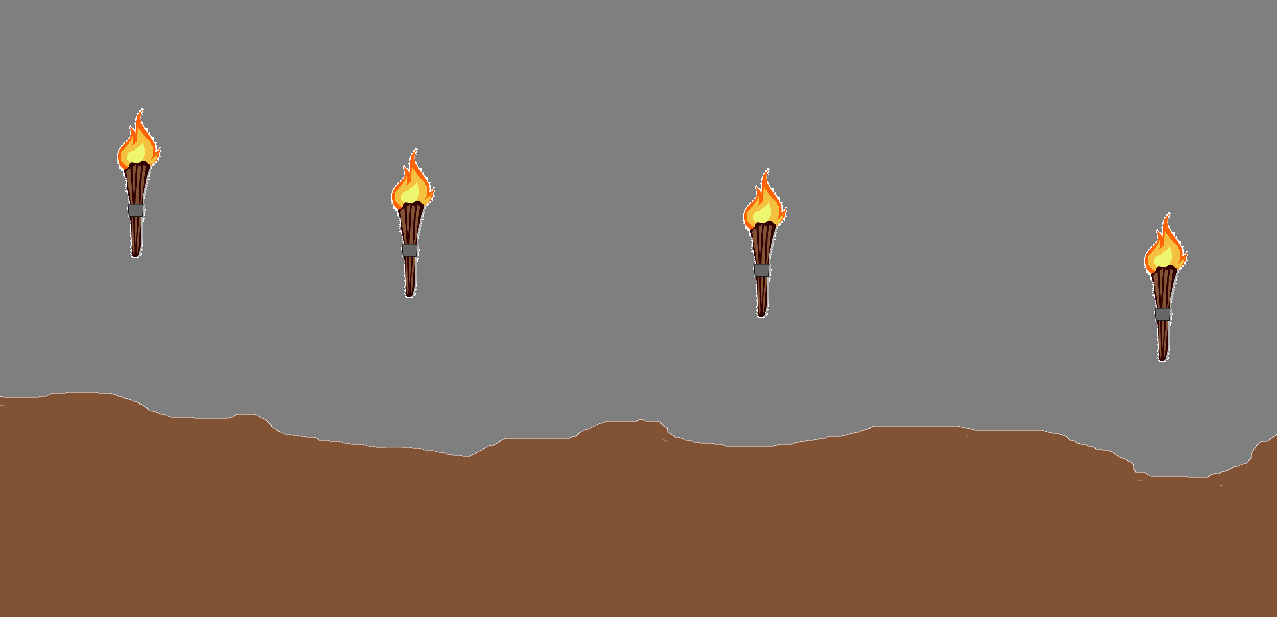
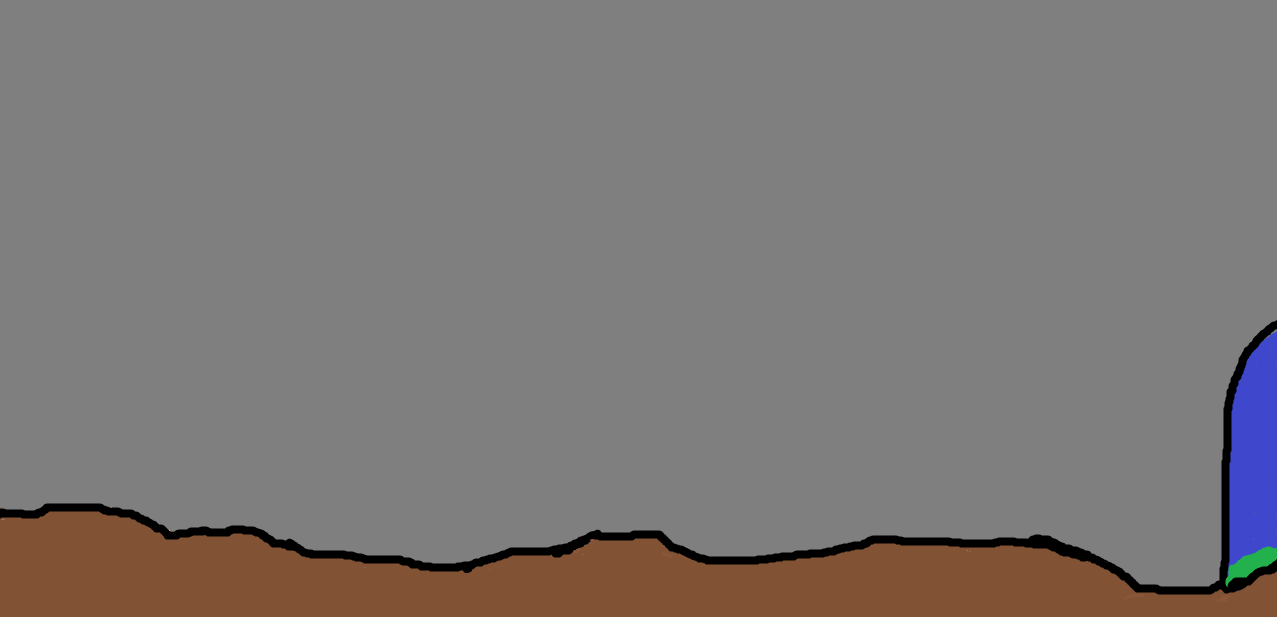
added torches and a way to stop collapsing roof

diff --git a/assets/javascript/cave.js b/assets/javascript/cave.js
@@ -5,10 +5,13 @@ var marginArray = []
 var rightCount = 48;
 var layers = 0
 var collapse = "notTriggered";
+var torch = false;
+var torchPicked;
 
 makeCave();
 
 function rocksFall() {
+    $("#torch4").css("display", "none")
     $("#pop-up").css("display", "inline-block")
     $("p").html("That may have been a mistake...")
     setTimeout(function() {
@@ -33,9 +36,38 @@ function rocksFall() {
 }
 
 $("#treasure").click(function(){
-    if (collapse === "waiting") {
+    if (collapse === "waiting" && torch === false) {
         openTreasure()
         setTimeout(rocksFall, 1000);
+        setTimeout(function (){
+            $("#character").attr("src", "assets/images/botanist-facing-right.png")
+            setTimeout(function (){
+                $("#character").attr("src", "assets/images/botanist-facing-left.png")
+                setTimeout(function (){
+                    $("#character").attr("src", "assets/images/botanist-facing-right.png")
+                },700)
+            },700)
+        },2400)
+    }
+    else if (collapse === "waiting" && torch === true) {
+        $("#pop-up").css("display", "inline-block")
+        $("p").html("Wait! With your torch you can see the chest is booby-trapped!")
+        setTimeout(function (){
+            $("p").html("You disable the trap!")
+            setTimeout(function (){
+                openTreasure()
+            },1000)
+        },1000)
+    }
+})
+
+$(".torch").click(function(){
+    if (torch === false){
+        torchPicked = this.id
+        console.log(torchPicked)
+        $("#"+ torchPicked).css("display", "none")
+        $("#character").attr("src", "assets/images/botanist-facing-left-torch.png")
+        torch = true;
     }
 })
 
@@ -80,12 +112,18 @@ function makeRocks () {
 }
 
 function openTreasure () {
-    $("#treasure").attr("src", "assets/images/treasure-open.png")
     $("#pop-up").css("display", "none")
+    $("#treasure").attr("src", "assets/images/treasure-open.png")
 }
 
 $(document).keydown(function( event ) {
     if ( event.which == 37 || event.which == 65) {
+        if (torch === false){
+            $("#character").attr("src", "assets/images/botanist-facing-left.png")
+        }
+        else {
+            $("#character").attr("src", "assets/images/botanist-facing-left-torch.png")
+        }
         if (rightCount > 13 && (collapse === "notTriggered" || collapse === "true")) {
             event.preventDefault();
             rightCount = rightCount - 0.5
@@ -105,6 +143,8 @@ $(document).keydown(function( event ) {
             $("#background").attr("src", "assets/images/cave-floor.png")
             $("#rock-div").empty()
             $("#treasure").css("display", "inline-block")
+            $(".torch").css("display", "inline-block")
+            $("#"+ torchPicked).css("display", "none")
             collapse = "notTriggered"
             rightCount = 98
             layers = 0
@@ -116,6 +156,12 @@ $(document).keydown(function( event ) {
         }
     }
     if ( event.which == 39 || event.which == 68 ) {
+        if (torch === false){
+            $("#character").attr("src", "assets/images/botanist-facing-right.png")
+        }
+        else {
+            $("#character").attr("src", "assets/images/botanist-facing-right-torch.png")
+        }
         if (rightCount < 90 && (collapse === "notTriggered" || collapse === "notInCave")) {
             event.preventDefault();
             rightCount = rightCount + 0.5
@@ -133,6 +179,7 @@ $(document).keydown(function( event ) {
             $("#rock-div").empty()
             $("#character").css("left", "2%")
             $("#treasure").css("display", "none")
+            $(".torch").css("display", "none")
             collapse = "notInCave"
             rightCount = 2
         }

diff --git a/cave.html b/cave.html
@@ -15,7 +15,11 @@
     <body>
         <div id ="rock-div">
         </div>
-        <img id="character" src="assets/images/botanist.png">
+        <img class="torch" id="torch" src="assets/images/torch.png">
+        <img class="torch" id="torch2" src="assets/images/torch.png">
+        <img class="torch" id="torch3" src="assets/images/torch.png">
+        <img class="torch" id="torch4" src="assets/images/torch.png">
+        <img id="character" src="assets/images/botanist-facing-left.png">
         <img id="background" class="cave-floor" src="assets/images/cave-floor.png">
         <img id="treasure" src="assets/images/treasure.png">
         <div id="pop-up">

diff --git a/assets/css/cave.css b/assets/css/cave.css
@@ -4,13 +4,30 @@
     position: fixed;
 }
 .cave-floor {
-    height : 60vh;
-    margin-top: 40vh;
+    height : 100vh;
     width: 100%;
     position: absolute;
     z-index: -1;
 }
 
+.torch {
+    height: 15vh;
+    width: 3vw;
+    position: absolute;
+    margin-top: 70vh;
+}
+#torch {
+    margin-left: 25vw;
+}
+#torch2 {
+    margin-left: 45vw;
+}
+#torch3 {
+    margin-left: 65vw;
+}
+#torch4 {
+    margin-left: 85vw;
+}
 .outside-floor {
     height : 100vh;
     margin-top: 0vh;
